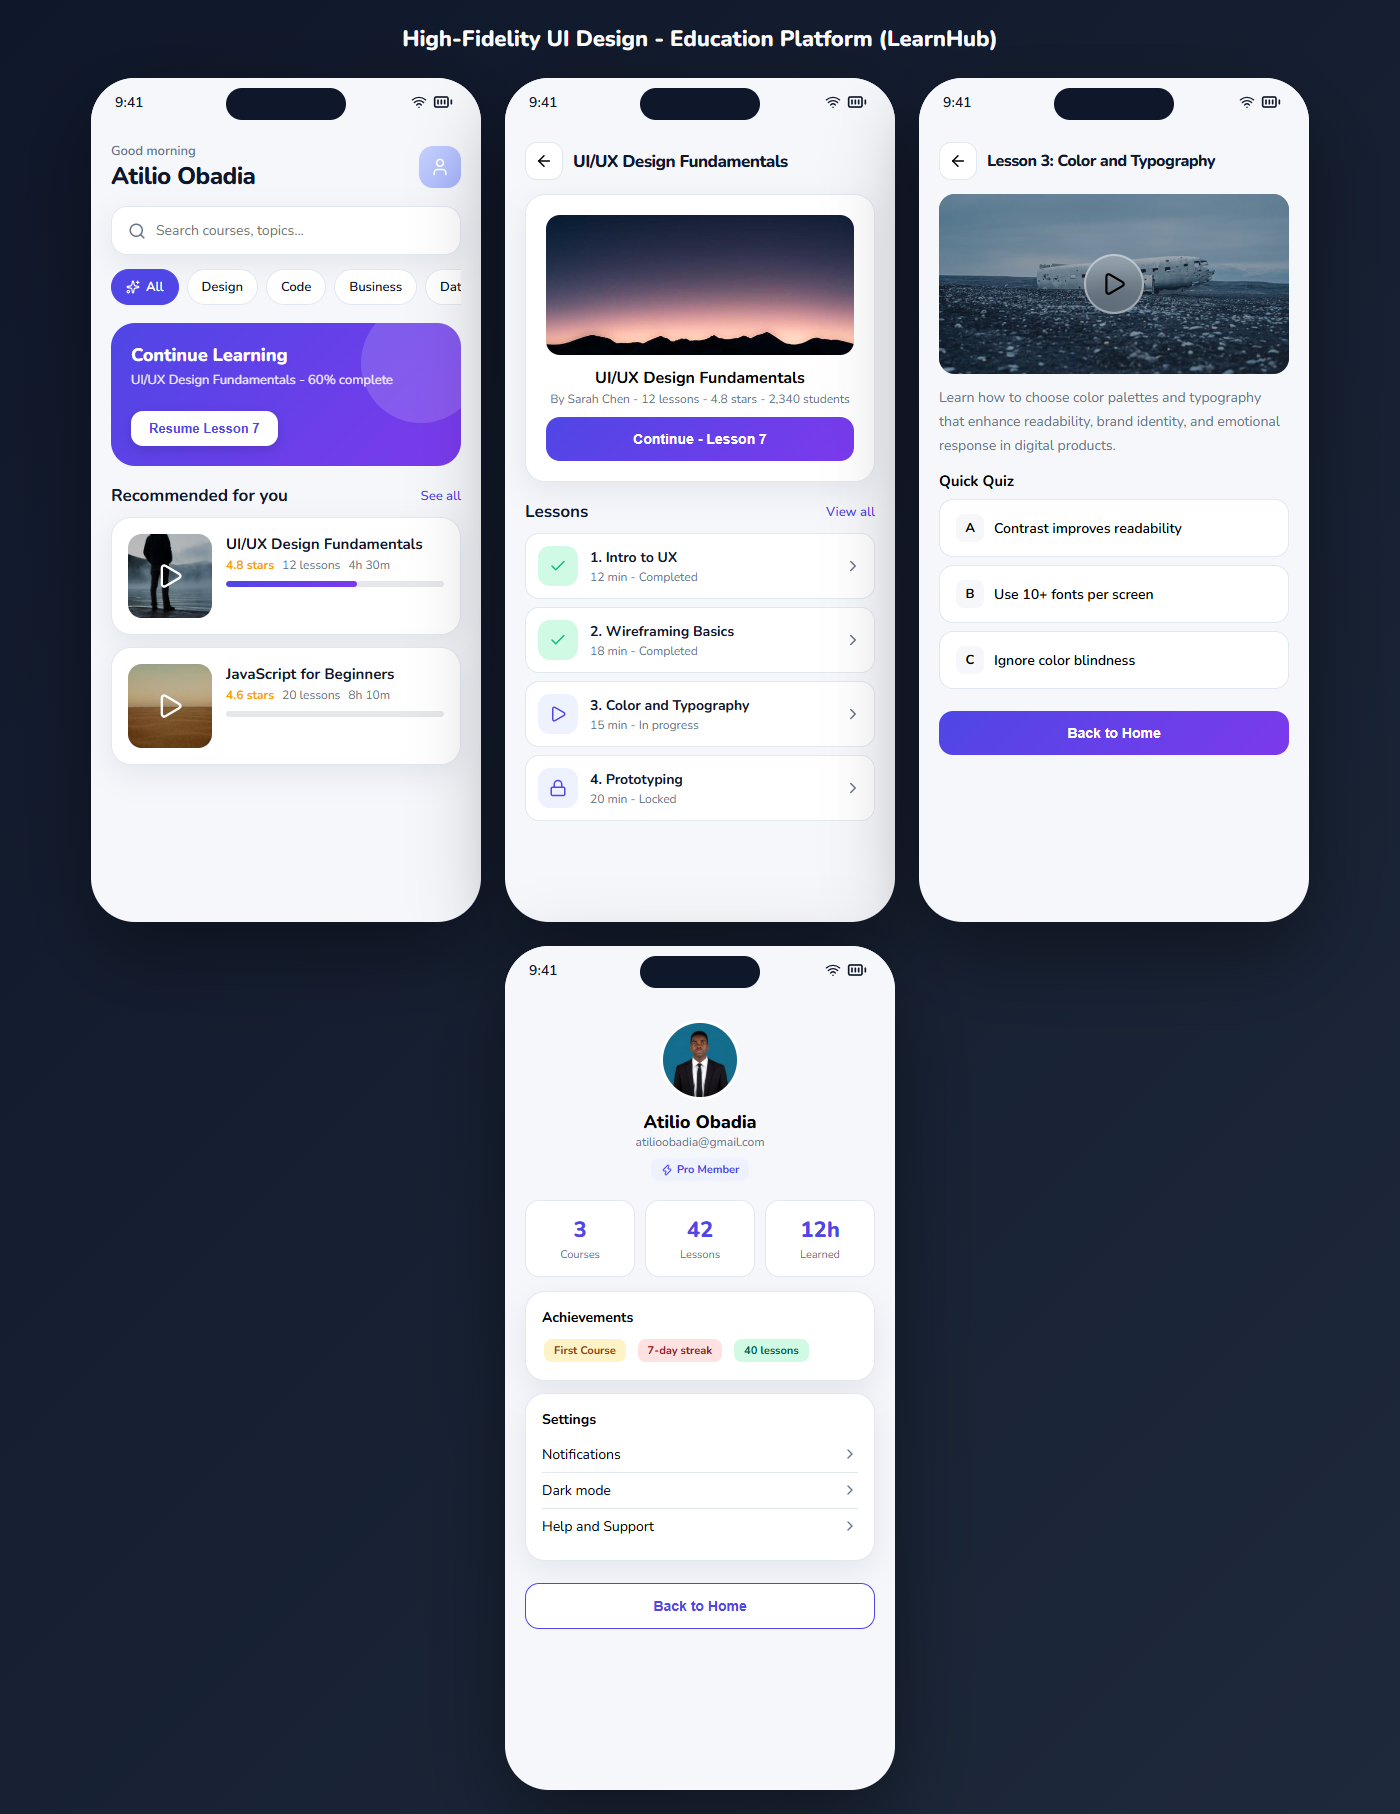
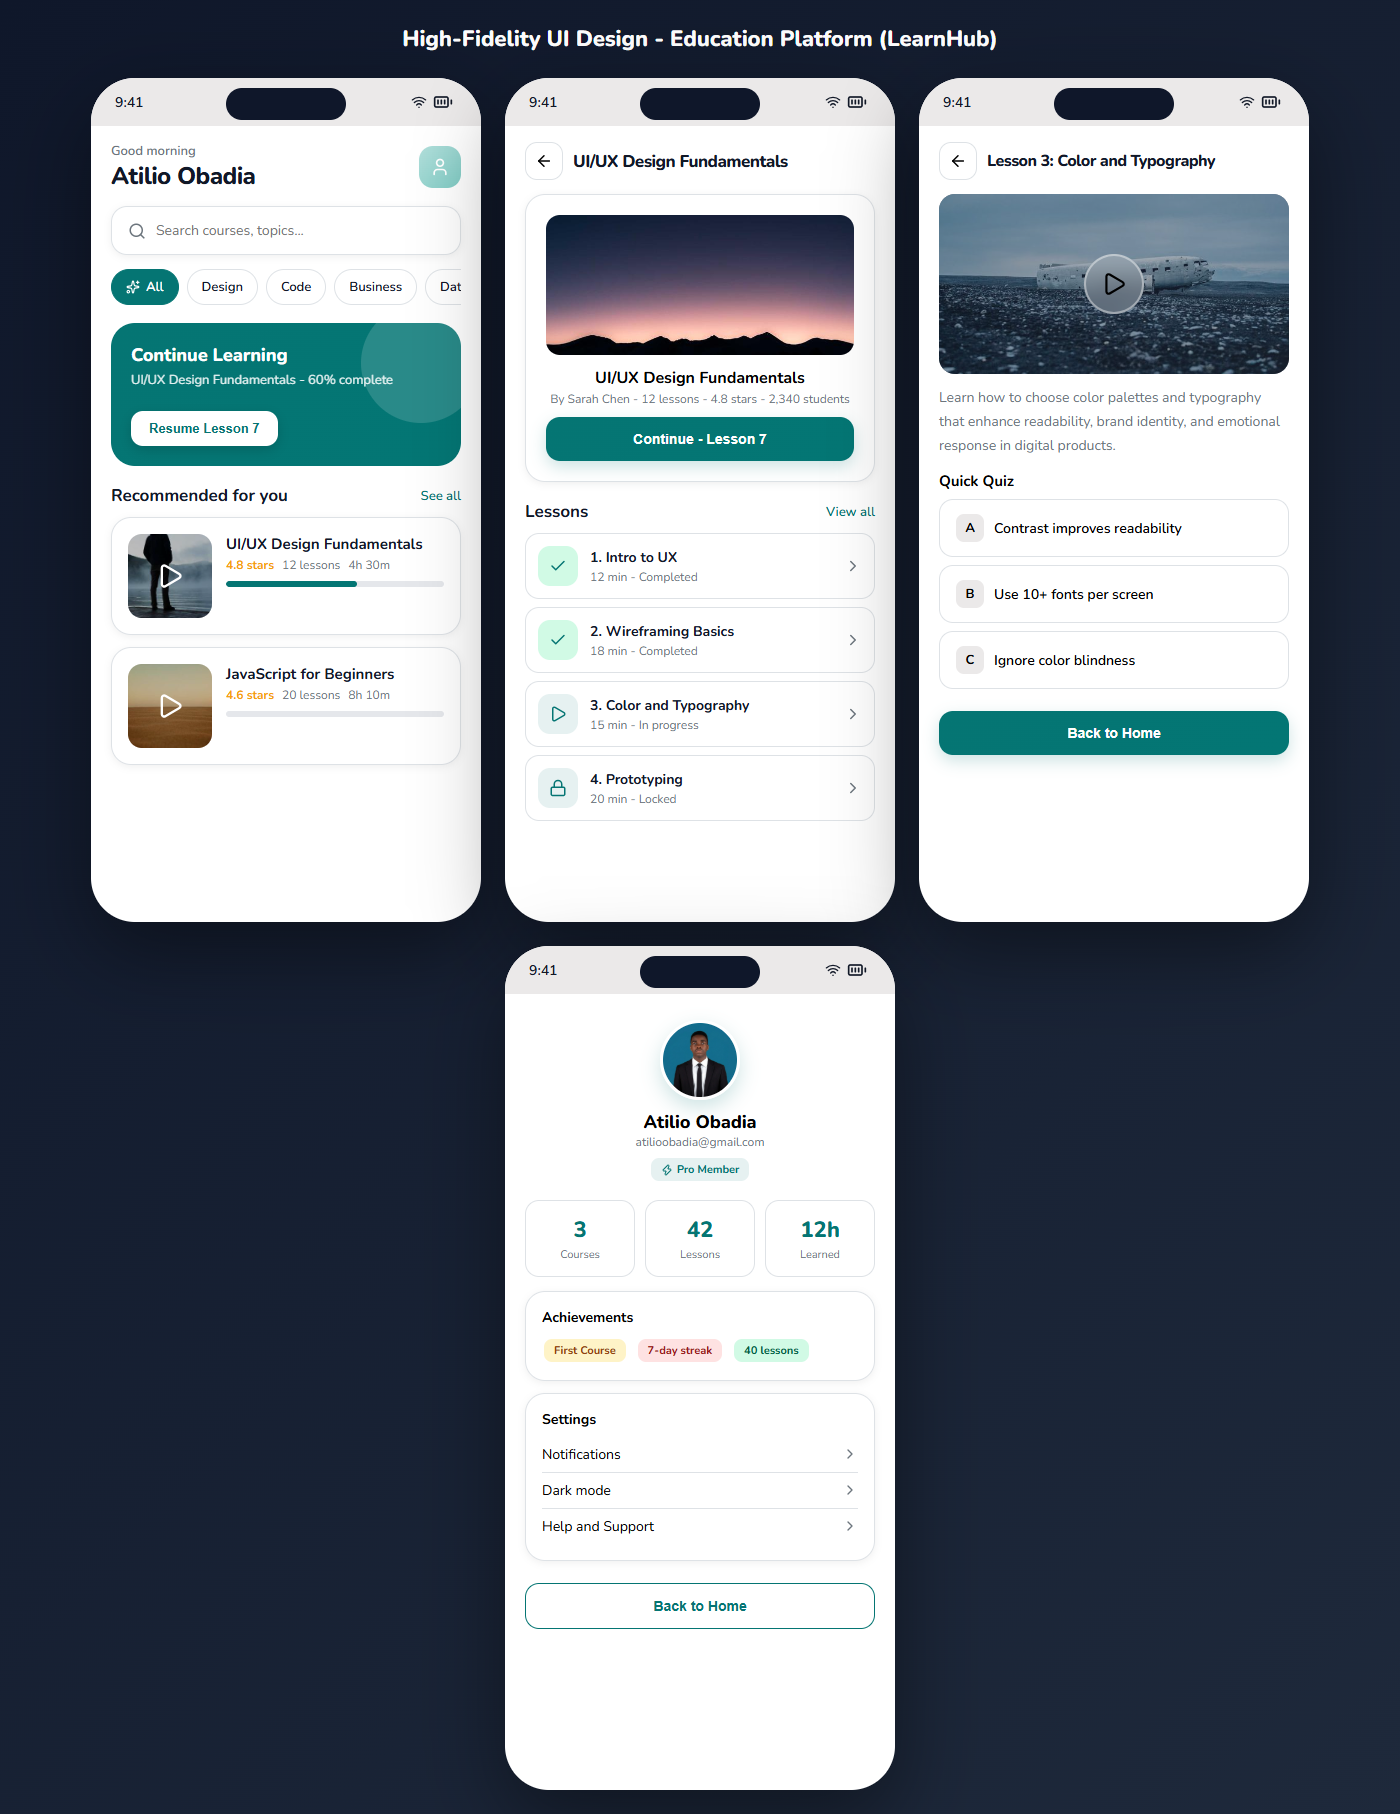
Apply teal palette + Nunito to high-fidelity UI

diff --git a/highfi.html b/highfi.html
@@ -1,4 +1,4 @@
-<!DOCTYPE html>
+<!DOCTYPE html>
 <html lang="en">
 <head>
 <meta charset="UTF-8">
@@ -8,16 +8,16 @@
 <script src="https://unpkg.com/lucide@latest/dist/umd/lucide.min.js"></script>
 <style>
 :root{
-  --brand:#4F46E5; --brand-2:#7C3AED; --brand-soft:#EEF2FF;
-  --bg:#F5F7FB; --card:#FFFFFF; --text:#0F172A; --muted:#64748B; --border:#E2E8F0;
-  --success:#10B981; --warn:#F59E0B; --danger:#EF4444; --radius:20px;
-  --shadow:0 10px 30px rgba(15,23,42,.08);
+  --brand:#057573; --brand-2:#037674; --brand-soft:#e6f1f1; --brand-glow:rgba(5,117,115,.2);
+  --bg:#ebe9e9; --card:#FFFFFF; --text:#111827; --muted:#6c757d; --border:#dee2e6;
+  --success:#057573; --warn:#F59E0B; --danger:#dc3545; --radius:20px;
+  --shadow:0 2px 8px rgba(0,0,0,.06);
 }
 *{box-sizing:border-box;margin:0;padding:0;}
 body{font-family:'Nunito',sans-serif;background:linear-gradient(135deg,#0F172A 0%,#1E293B 100%);min-height:100vh;padding:24px;display:flex;flex-direction:column;align-items:center;gap:24px;}
 h1{color:#fff;font-size:22px;font-weight:800;}
 .grid{display:flex;gap:24px;flex-wrap:wrap;justify-content:center;}
-.phone{width:390px;height:844px;background:var(--bg);border-radius:44px;overflow:hidden;position:relative;box-shadow:0 30px 80px rgba(0,0,0,.4);flex-shrink:0;}
+.phone{width:390px;height:844px;background:#ffffff;border-radius:44px;overflow:hidden;position:relative;box-shadow:0 30px 80px rgba(0,0,0,.4);flex-shrink:0;}
 .status{height:48px;display:flex;align-items:center;justify-content:space-between;padding:0 28px 0 24px;font-size:14px;font-weight:600;color:var(--text);background:var(--bg);}
 .status .icons{display:flex;gap:6px;align-items:center;}
 .notch{position:absolute;top:10px;left:50%;transform:translateX(-50%);width:120px;height:32px;background:#0F172A;border-radius:20px;z-index:10;}
@@ -30,7 +30,7 @@ h1{color:#fff;font-size:22px;font-weight:800;}
 .chip.active{background:var(--brand);color:#fff;border-color:var(--brand);}
 .card{background:var(--card);border-radius:var(--radius);padding:16px;box-shadow:var(--shadow);border:1px solid var(--border);margin-bottom:12px;}
 .course-card{display:flex;gap:14px;overflow:hidden;}
-.course-thumb{width:84px;height:84px;border-radius:14px;flex-shrink:0;position:relative;overflow:hidden;background:linear-gradient(135deg,#C7D2FE,#A5B4FC);display:flex;align-items:center;justify-content:center;color:#fff;}
+.course-thumb{width:84px;height:84px;border-radius:14px;flex-shrink:0;position:relative;overflow:hidden;background:linear-gradient(135deg,#b2dfdb,#80cbc4);display:flex;align-items:center;justify-content:center;color:#fff;}
 .course-thumb img{width:100%;height:100%;object-fit:cover;}
 .course-thumb .play{position:absolute;inset:0;display:flex;align-items:center;justify-content:center;background:rgba(0,0,0,.25);}
 .course-info{flex:1;min-width:0;}
@@ -84,7 +84,7 @@ h1{color:#fff;font-size:22px;font-weight:800;}
   <div class="screen">
     <div style="display:flex;align-items:center;justify-content:space-between;margin-bottom:14px;">
       <div><div style="font-size:13px;color:var(--muted);font-weight:600;">Good morning</div><div class="h1" style="margin:0;">Atilio Obadia</div></div>
-      <div style="width:42px;height:42px;border-radius:14px;background:linear-gradient(135deg,#C7D2FE,#A5B4FC);display:flex;align-items:center;justify-content:center;"><i data-lucide="user" style="color:#fff;width:20px;height:20px;"></i></div>
+      <div style="width:42px;height:42px;border-radius:14px;background:linear-gradient(135deg,#b2dfdb,#80cbc4);display:flex;align-items:center;justify-content:center;"><i data-lucide="user" style="color:#fff;width:20px;height:20px;"></i></div>
     </div>
     <div class="search"><i data-lucide="search" style="width:18px;height:18px;color:var(--muted);"></i><input placeholder="Search courses, topics..."></div>
     <div class="chips">
@@ -169,3 +169,5 @@ h1{color:#fff;font-size:22px;font-weight:800;}
 <script>lucide.createIcons();</script>
 </body>
 </html>
+
+
